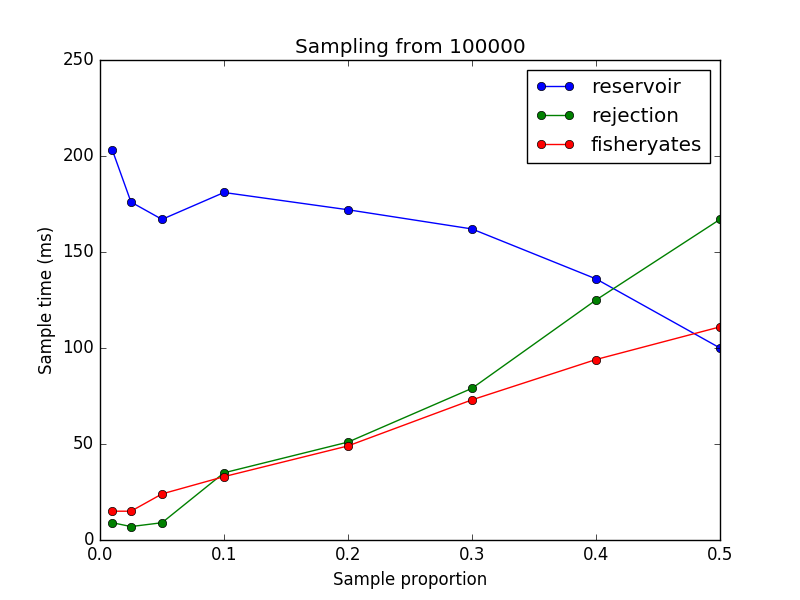
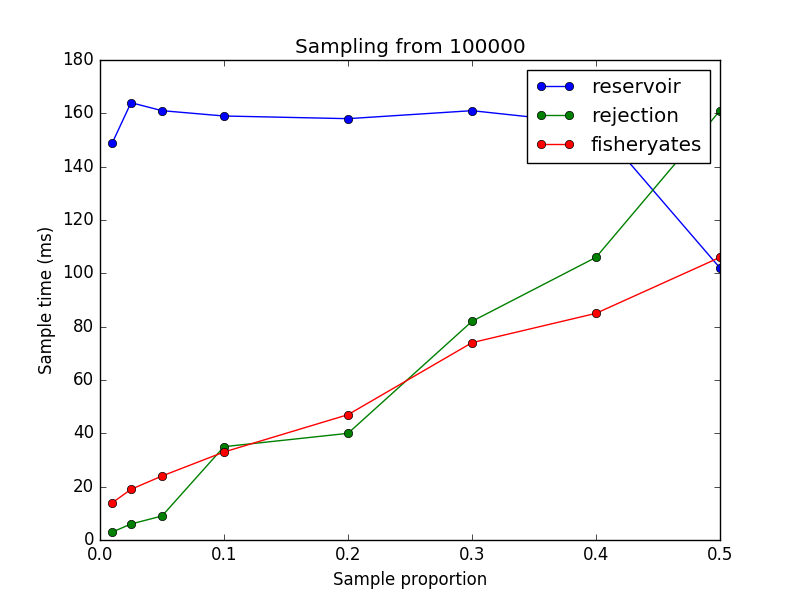
Add benchmarks test

diff --git a/lib/src/test/java/edu/stanford/futuredata/macrobase/analysis/classify/MultiMADBenchmarkTest.java b/lib/src/test/java/edu/stanford/futuredata/macrobase/analysis/classify/MultiMADBenchmarkTest.java
@@ -8,15 +8,25 @@ import org.junit.Before;
 import org.junit.Test;
 
 import java.util.Arrays;
+import java.util.ArrayList;
+import java.util.List;
 import java.util.HashMap;
 import java.util.List;
 import java.util.Map;
+import java.nio.file.Path;
+import java.nio.file.Paths;
+import java.nio.file.Files;
+import java.nio.charset.Charset;
 
 import static org.junit.Assert.assertEquals;
 import static org.junit.Assert.assertTrue;
 
 public class MultiMADBenchmarkTest {
     private DataFrame df;
+    private DataFrame df_classified;
+    private String[] columnNames;
+    private String[] testColumnNames;
+    private List<String> lines;
 
     // @Test
     // public void testSampleBenchmark() throws Exception {
@@ -99,7 +109,7 @@ public class MultiMADBenchmarkTest {
     @Test
     public void testHepmassBenchmark() throws Exception {
         Map<String, Schema.ColType> schema = new HashMap<>();
-        String[] columnNames = new String[27];
+        columnNames = new String[27];
         for (int i = 0; i < 27; i++) {
             columnNames[i] = "f" + String.valueOf(i);
             schema.put(columnNames[i], Schema.ColType.DOUBLE);
@@ -109,29 +119,62 @@ public class MultiMADBenchmarkTest {
         ).setColumnTypes(schema);
         df = loader.load();
 
-        DataFrame df_classified;
+        lines = new ArrayList<String>();
 
+        int[] numColumns = {1, 5, 10, 20};
+
+        for (int num : numColumns) {
+            testColumnNames = new String[num];
+            System.arraycopy(columnNames, 0, testColumnNames, 0, num);
+
+            int numTrials = 100;
+
+            System.out.println("HEPMASS");
+
+            runPercentileClassifier(numTrials);
+
+            runMultiMADClassifier(numTrials, 1.0);
+            runMultiMADClassifier(numTrials, 0.1);
+            runMultiMADClassifier(numTrials, 0.01);
+        }
+
+        Path file = Paths.get("benchmark.csv");
+        Files.write(file, lines, Charset.forName("UTF-8"));
+    }
+
+    public void runPercentileClassifier(int numTrials) {
         long startTime = System.currentTimeMillis();
 
-        for (String columnName : columnNames) {
+        for (String columnName : testColumnNames) {
             PercentileClassifier pc = new PercentileClassifier(columnName)
                     .setPercentile(5);
-            pc.process(df);
-            df_classified = pc.getResults();
+            for (int i = 0; i < numTrials; i++) {
+                pc.process(df);
+                df_classified = pc.getResults();
+            }
         }
 
         long estimatedTime = System.currentTimeMillis() - startTime;
-        System.out.format("HEPMASS with PercentileClassifier: %d ms\n", estimatedTime);
+        System.out.format("PercentileClassifier: %d ms\n", estimatedTime);
+        lines.add("percentile_classifier, " + String.valueOf(testColumnNames.length) +
+                ", " + String.valueOf(estimatedTime));
+    }
 
-        startTime = System.currentTimeMillis();
+    public void runMultiMADClassifier(int numTrials, double samplingRate) {
+        long startTime = System.currentTimeMillis();
 
-        MultiMADClassifier mad = new MultiMADClassifier(columnNames)
+        MultiMADClassifier mad = new MultiMADClassifier(testColumnNames)
                 .setPercentile(5)
-                .setSamplingRate(0.1);
-        mad.process(df);
-        df_classified = mad.getResults();
+                .setSamplingRate(samplingRate);
+        for (int i = 0; i < numTrials; i++) {
+            mad.process(df);
+            df_classified = mad.getResults();
+        }
 
-        estimatedTime = System.currentTimeMillis() - startTime;
-        System.out.format("HEPMASS with MultiMADClassifier: %d ms\n", estimatedTime);
+        long estimatedTime = System.currentTimeMillis() - startTime;
+        System.out.format("MultiMADClassifier, sampling rate %f: %d ms\n",
+            samplingRate, estimatedTime);
+        lines.add("multimad_" + String.valueOf(samplingRate) + ", " +
+            String.valueOf(testColumnNames.length) + ", " + String.valueOf(estimatedTime));
     }
 }

diff --git a/lib/plot.py b/lib/plot.py
@@ -58,6 +58,8 @@ def training():
 				data[method] = [[num_rows, time]]
 
 	for method in data:
+		if method == 'train_iqr_old':
+			continue
 		num_rows = [x[0] for x in data[method]]
 		time = [x[1] for x in data[method]]
 		plt.plot(num_rows, time, 'o-', label=method)
@@ -71,10 +73,35 @@ def training():
 	plt.close()
 
 
+def benchmark():
+	data = dict()
+	with open('benchmark.csv', 'r') as f:
+		for line in f:
+			method, num_cols, time = line.strip().split(', ')
+			if method in data:
+				data[method].append([num_cols, time])
+			else:
+				data[method] = [[num_cols, time]]
+
+	for method in data:
+		num_cols = [x[0] for x in data[method]]
+		time = [x[1] for x in data[method]]
+		plt.plot(num_cols, time, 'o-', label=method)
+	plt.legend()
+	plt.title('Classification times on 1M rows')
+	plt.xlabel('Num cols')
+	plt.ylabel('Classification time (ms)')
+	# plt.xscale('log')
+	# plt.yscale('log')
+	plt.savefig('benchmark.png', format = 'png')
+	plt.close()
+
+
 def main():
-    # sampling()
-    scoring()
+    sampling()
+    # scoring()
     # training()
+    # benchmark()
 
 
 if __name__ == "__main__":

diff --git a/python/MultiMADClassifierTest.py b/python/MultiMADClassifierTest.py
@@ -18,7 +18,7 @@ def test():
 
 	# use synthetic data
 	num_cols = 20
-	num_rows = 100000
+	num_rows = 1000000
 	input = np.random.rand(num_cols, num_rows)
 
 	# process
@@ -54,7 +54,8 @@ def test():
 	print "Total time elapsed: {}".format(end - start)
 
 	classification2 = mad.classification
-	print "Classifications agree: {}".format(sum(classification1[1] == classification2[1]))
+	print "Classifications agree: {} out of {}".format(
+		sum(classification1[1] == classification2[1]), num_rows)
 
 if __name__ == "__main__":
 	test()

diff --git a/lib/src/test/java/edu/stanford/futuredata/macrobase/analysis/classify/SamplingTest.java b/lib/src/test/java/edu/stanford/futuredata/macrobase/analysis/classify/SamplingTest.java
@@ -120,8 +120,9 @@ public class SamplingTest {
             range[j] = range[i];
             range[i] = temp;
         }
-        int[] sampleIndices = new int[sampleSize];
-        System.arraycopy(range, 0, sampleIndices, 0, sampleSize);
-        return sampleIndices;
+        return range;
+        // int[] sampleIndices = new int[sampleSize];
+        // System.arraycopy(range, 0, sampleIndices, 0, sampleSize);
+        // return sampleIndices;
     }
 }
